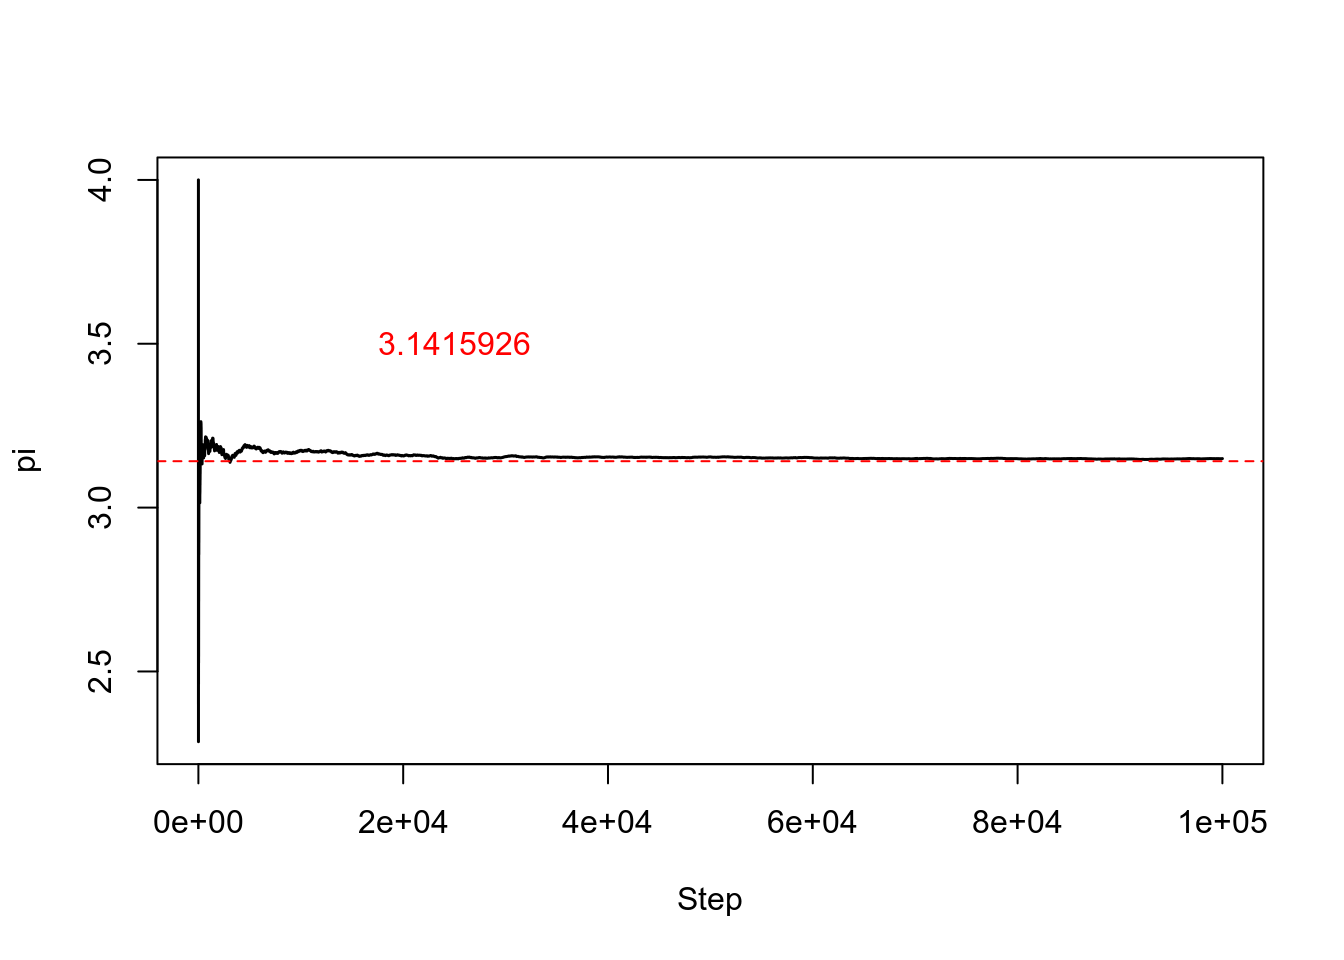
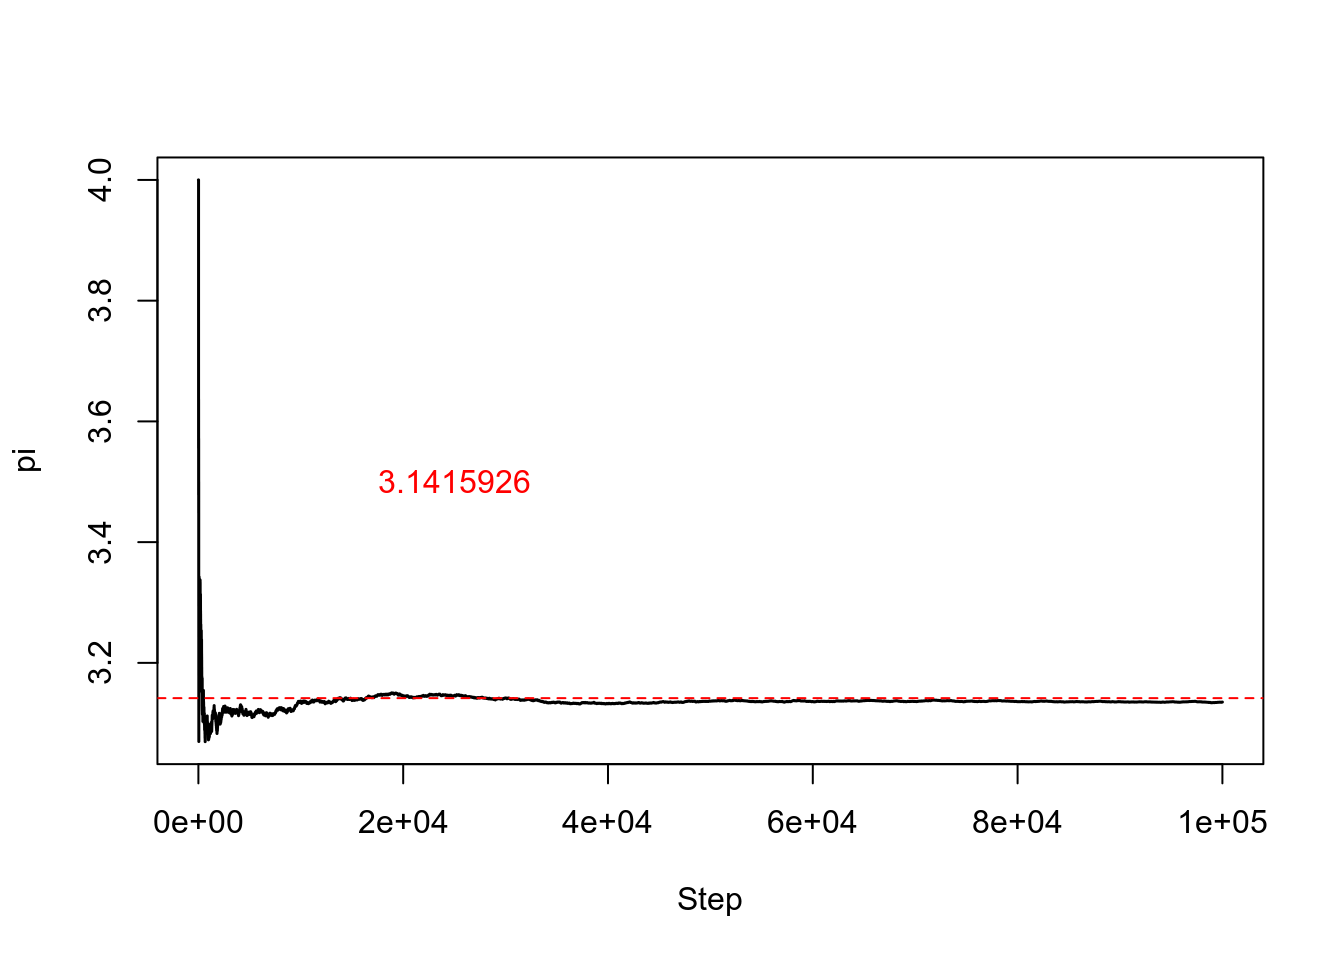
Update

diff --git a/docs/Section_01.html b/docs/Section_01.html
@@ -710,7 +710,7 @@ div.tocify {
 <a class="sourceLine" id="cb2-7" data-line-number="7"><span class="kw">text</span>(<span class="fl">0.25</span><span class="op">*</span>TotalDraw,<span class="fl">3.5</span>,<span class="st">&quot;3.1415926&quot;</span>,<span class="dt">cex=</span><span class="dv">1</span>,<span class="dt">col=</span><span class="st">&quot;red&quot;</span>)</a></code></pre></div>
 <p><img src="Section_01_files/figure-html/unnamed-chunk-2-1.png" width="672" /></p>
 <div class="sourceCode" id="cb3"><pre class="sourceCode r"><code class="sourceCode r"><a class="sourceLine" id="cb3-1" data-line-number="1"><span class="kw">print</span>(<span class="kw">paste</span>(<span class="st">&quot;Mean Pi from the last 100 steps is: &quot;</span>,<span class="kw">mean</span>(Results[TotalDraw<span class="dv">-99</span><span class="op">:</span>TotalDraw])))</a></code></pre></div>
-<pre><code>## [1] &quot;Mean Pi from the last 100 steps is:  3.1686623996276&quot;</code></pre>
+<pre><code>## [1] &quot;Mean Pi from the last 100 steps is:  3.11245296742066&quot;</code></pre>
 <p>Simulation with 100,000 random points yields a better result</p>
 <div class="sourceCode" id="cb5"><pre class="sourceCode r"><code class="sourceCode r"><a class="sourceLine" id="cb5-1" data-line-number="1"><span class="co"># Draw 1E5 points</span></a>
 <a class="sourceLine" id="cb5-2" data-line-number="2">TotalDraw &lt;-<span class="st"> </span><span class="fl">1E5</span></a>
@@ -721,8 +721,19 @@ div.tocify {
 <a class="sourceLine" id="cb5-7" data-line-number="7"><span class="kw">text</span>(<span class="fl">0.25</span><span class="op">*</span>TotalDraw,<span class="fl">3.5</span>,<span class="st">&quot;3.1415926&quot;</span>,<span class="dt">cex=</span><span class="dv">1</span>,<span class="dt">col=</span><span class="st">&quot;red&quot;</span>)</a></code></pre></div>
 <p><img src="Section_01_files/figure-html/unnamed-chunk-3-1.png" width="672" /></p>
 <div class="sourceCode" id="cb6"><pre class="sourceCode r"><code class="sourceCode r"><a class="sourceLine" id="cb6-1" data-line-number="1"><span class="kw">print</span>(<span class="kw">paste</span>(<span class="st">&quot;Mean Pi from the last 100 steps is: &quot;</span>,<span class="kw">mean</span>(Results[TotalDraw<span class="dv">-99</span><span class="op">:</span>TotalDraw])))</a></code></pre></div>
-<pre><code>## [1] &quot;Mean Pi from the last 100 steps is:  3.15480496528566&quot;</code></pre>
+<pre><code>## [1] &quot;Mean Pi from the last 100 steps is:  3.13594818147322&quot;</code></pre>
+<hr />
 </div>
+</div>
+<div id="in-class-exercises" class="section level1">
+<h1>In-class exercises</h1>
+<ul>
+<li>Brainstorm one research question<br />
+</li>
+<li>What is the conceptual model?<br />
+</li>
+<li>What is the math/logic model?</li>
+</ul>
 </div>
 <div class="footnotes">
 <hr />
